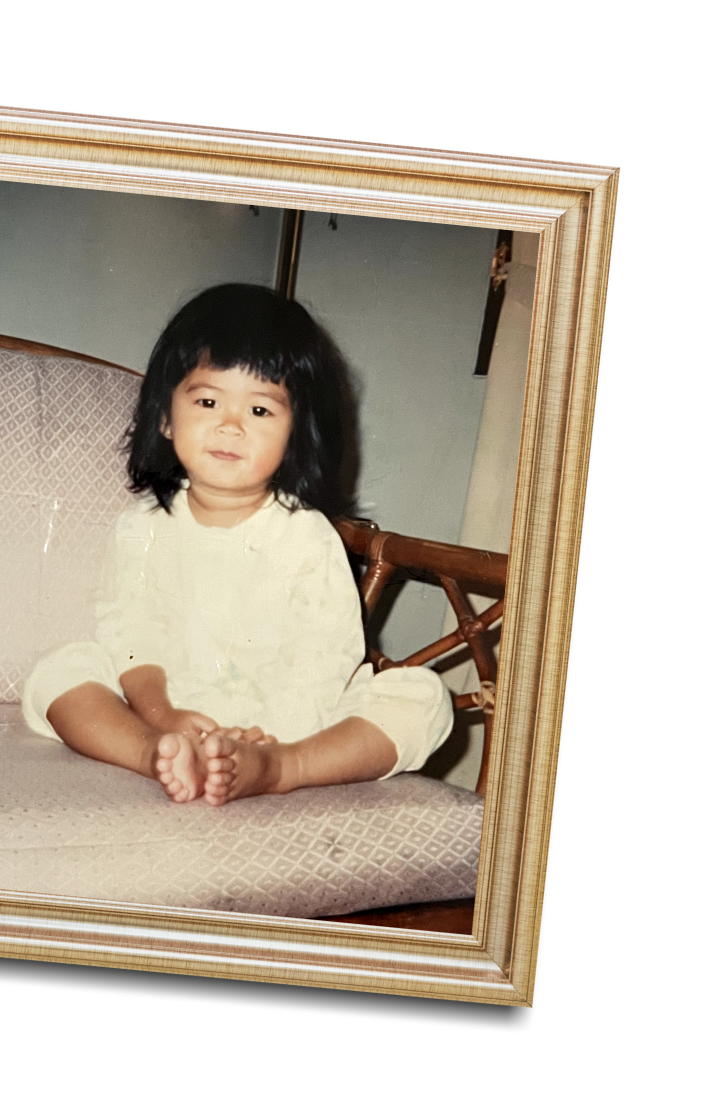
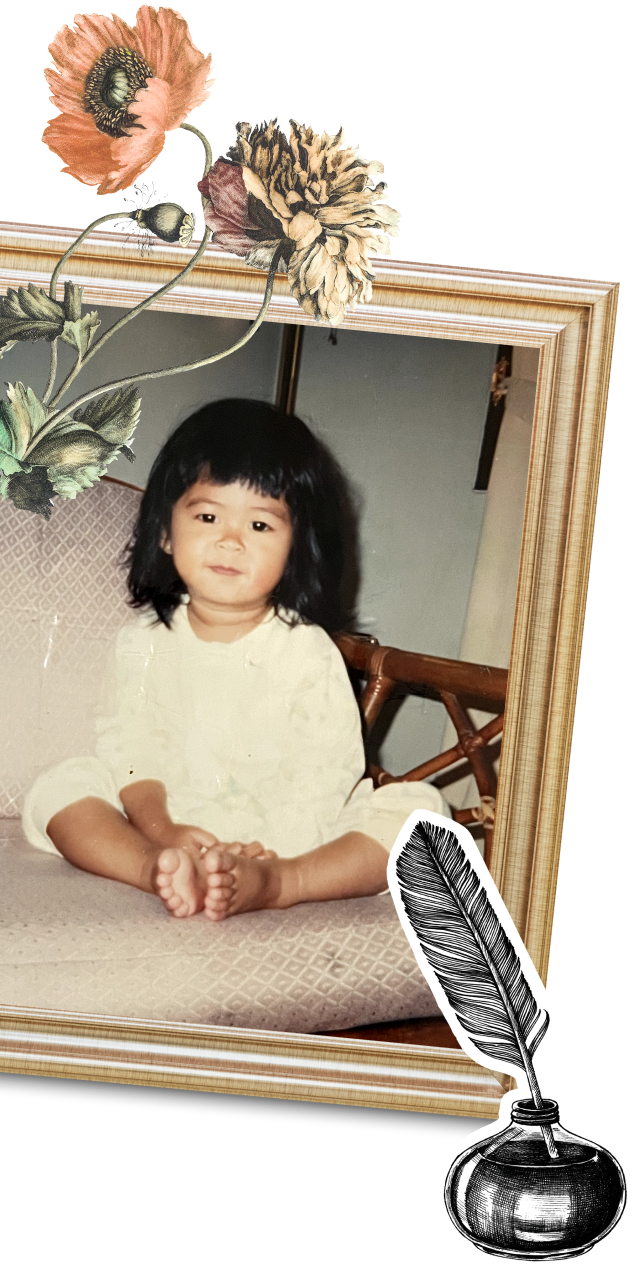
Intro Page Updates

diff --git a/public/index.html b/public/index.html
@@ -35,32 +35,27 @@
 
     <main id="main-content" class="hidden lg:block">
         <!-- Section 2: About Pengantin -->
-        <div id="about-pengantin" class="section min-h-screen flex flex-col items-center justify-evenly bg-subtract bg-cover bg-center">
-            <h2 class="text-xl font-garamond text-customGray italic text-center w-3/5">Kami sekeluarga mengundang Anda ke pernikahan</h2>
-            <div class="flex flex-row items-center space-x-4">
-                <div class="w-[40vh] h-[45vh] relative">
-                    <img src="https://res.cloudinary.com/dz0ndwdvf/image/upload/q_auto:best,f_auto,w_auto/v1730364126/dilaintro_pmhqni.png" class="absolute left-0 z-10">
-                    <img src="https://res.cloudinary.com/dz0ndwdvf/image/upload/q_auto:best,f_auto,w_auto/v1730291345/flowervector_objqk8.png" class="absolute left-0 top-1 z-20"> 
-                    <img src="https://res.cloudinary.com/dz0ndwdvf/image/upload/q_auto:best,f_auto,w_auto/v1730291347/inkfeathervector_mulkxi.png" class="absolute left-4 z-20">
+        <div id="about-pengantin" class="section min-h-screen flex flex-col items-center justify-start bg-subtract bg-cover bg-center">
+            <h2 class="text-xl lg:text-2xl font-garamond text-customGray italic text-center tracking-wider w-4/5 lg:w-1/2 pt-4">Kami sekeluarga mengundang Anda ke pernikahan</h2>
+            <div class="flex flex-row items-center justify-start w-full">
+                <div class="">
+                    <img src="https://res.cloudinary.com/dz0ndwdvf/image/upload/q_auto:best,f_auto,w_auto/v1730364126/dilaintro_owxyjo.png" class="w-[40vw] lg:w-[25vh]">
                 </div>
-                <div>
-                    <img src="/assets/dilaaksara.svg">
-                    <h2 class="font-fasthand">Adila Nurul Ilma</h2>
-                    <h2 class="font-garamond text-black"> Putri pertama dari Bapak Nursyirwan dan Ibu Karsinah</h2>
+                <div class="ml-4 lg:ml-[5vw] w-[45vw] lg:w-[10vw]">
+                    <img src="/assets/dilaaksara.svg" class="lg:w-[4vw] ">
+                    <h2 class="font-fasthand text-2xl lg:text-3xl font-normal  text-customIntroGreen">Adila Nurul Ilma</h2>
+                    <h2 class="font-garamond text-black font-normal tracking-wide lg:text-lg lg:tracking-wider lg:w-[14vw] pt-2"> Putri pertama dari Bapak Nursyirwan dan Ibu Karsinah</h2>
                 </div>
-
             </div>
-            <img src="/assets/dan.png" >
-            <div class="flex flex-row items-center space-x-4">
-                <div>
-                    <img src="/assets/rioaksara.svg">
-                    <h2 class="font-fasthand">Rio Rifqi Syah Akbar</h2>
-                    <h2 class="font-garamond text-black">Putri pertama dari Bapak Jenindra Kinta Ismawan dan Ibu Astikasari Mahendrani</h2>
+            <img src="/assets/dan.svg" class="w-3/5">
+            <div class="flex flex-row items-center justify-end w-full">
+                <div  class="mr-4 lg:mr-[5vw] w-[45vw] lg:w-[10vw]">
+                    <img src="/assets/rioaksara.svg" class="lg:w-[4vw]">
+                    <h2 class="font-fasthand text-xl lg:text-3xl font-normal text-customIntroGreen">Rio Rifqi Syah Akbar</h2>
+                    <h2 class="font-garamond text-black font-normal tracking-wide lg:text-lg lg:tracking-wider lg:w-[14vw] pt-2">Putri pertama dari Bapak Jenindra Kinta Ismawan dan Ibu Astikasari Mahendrani</h2>
                 </div>
-                <div class="w-[40vh] h-[45vh] relative">
-                    <img src="https://res.cloudinary.com/dz0ndwdvf/image/upload/q_auto:best,f_auto,w_auto/v1730364128/riointro_fhjdbf.png" class="absolute right-0 z-10">
-                    <img src="https://res.cloudinary.com/dz0ndwdvf/image/upload/q_auto:best,f_auto,w_auto/v1730291344/flower2vector_viriel.png" class="absolute right-0 top-1 z-20"> 
-                    <img src="https://res.cloudinary.com/dz0ndwdvf/image/upload/q_auto:best,f_auto,w_auto/v1730291353/planevector_tkhjeu.png" class="absolute right-4 z-20">
+                <div class="">
+                    <img src="https://res.cloudinary.com/dz0ndwdvf/image/upload/q_auto:best,f_auto,w_auto/v1730364128/riointro_hgo8zk.png" class="w-[45vw] lg:w-[30vh]">
                 </div>
             </div>
             

diff --git a/tailwind.config.js b/tailwind.config.js
@@ -8,7 +8,7 @@ module.exports = {
     extend: {
       backgroundImage: {
         'hero-image': "url('https://res.cloudinary.com/dz0ndwdvf/image/upload/q_100,f_auto,w_auto/v1730291358/megamendung_xov04r.svg')",
-        'subtract': "url('https://res.cloudinary.com/dz0ndwdvf/image/upload/q_100,f_auto,w_auto/v1730291362/Subtract_n6gr9l.jpg')",
+        'subtract': "url('https://res.cloudinary.com/dz0ndwdvf/image/upload/q_100,f_auto,w_auto/v1730382489/subtract_tvrj1p.png')",
         'subtract-modified': "url('https://res.cloudinary.com/dz0ndwdvf/image/upload/q_100,f_auto,w_auto/v1730291383/Subtract-modified_mjxvzz.png')",
         'subtract-modified-horizontal': "url('https://res.cloudinary.com/dz0ndwdvf/image/upload/q_100,f_auto,w_auto/v1730358806/Subtract-modified-horizontal_jjlhmq.png')",
         'subtract-green': "url('https://res.cloudinary.com/dz0ndwdvf/image/upload/q_100,f_auto,w_auto/v1730362545/subtractgreen_jplf7p.png')",
@@ -32,7 +32,8 @@ module.exports = {
         customBlack: '#282828',
         customPrimaryGreen: '#304A4C',
         customDarkGreen: '#2F3F36',
-        customLightGreen: '#748C7D'
+        customLightGreen: '#748C7D',
+        customIntroGreen: '#3F4F70'
       },
       fontFamily: {
         garamond: ['EB Garamond'],
